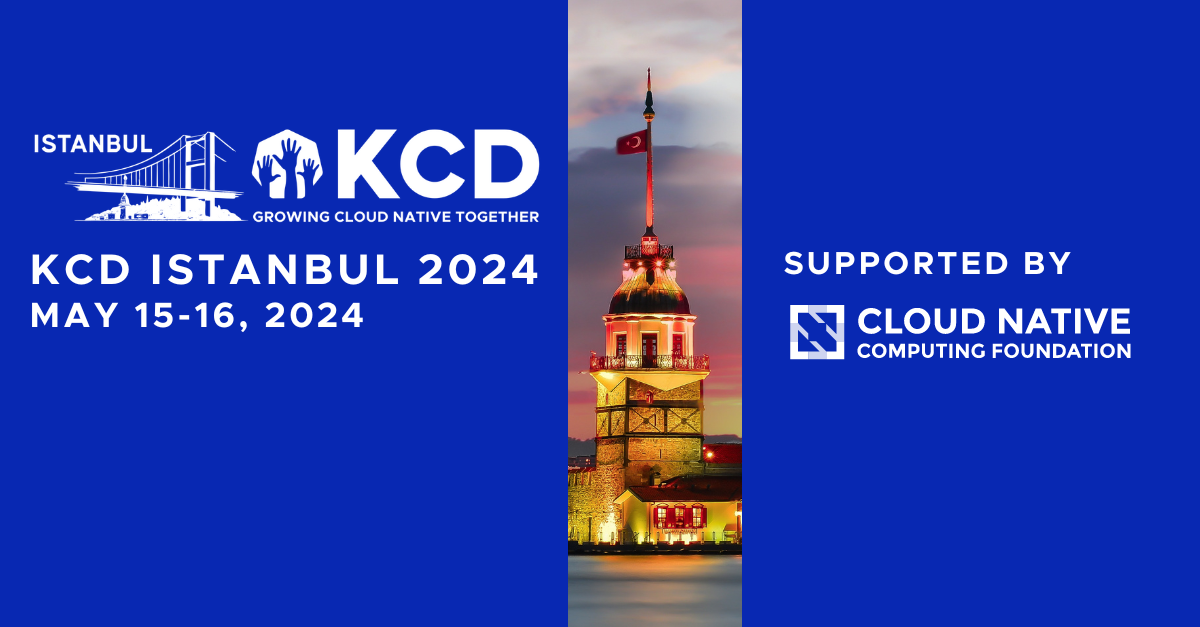
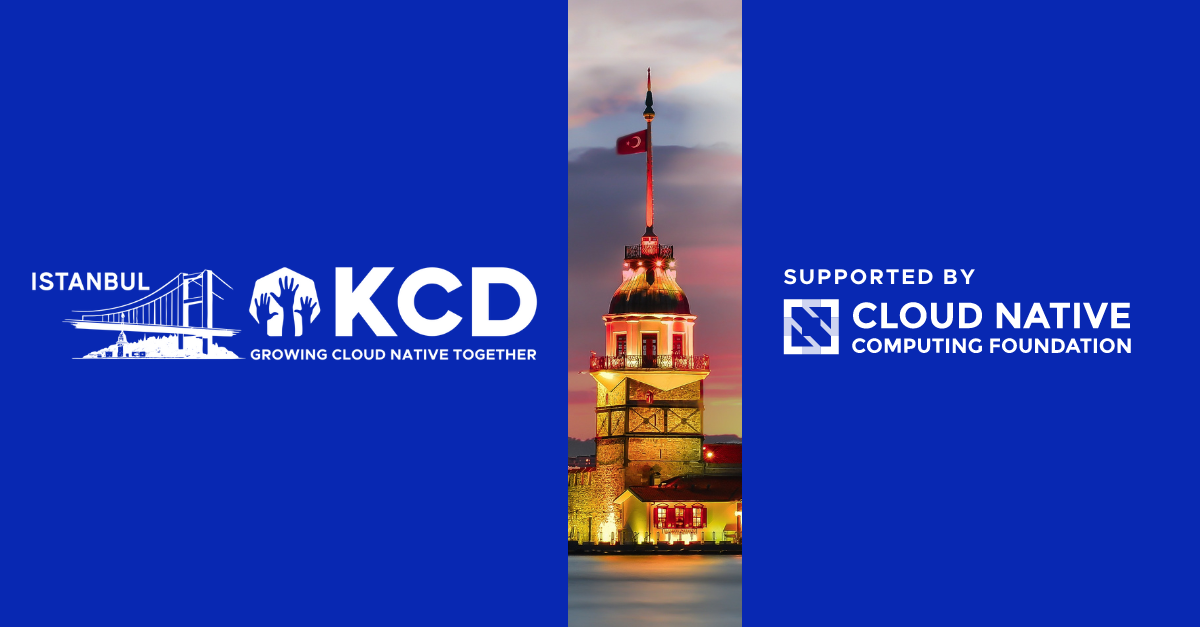
Updates for 2024 (#33)
* Update pages for past event

* Hide irrelevant pages from the navbar

* Change speaker layout

* Noting that the event has passed

* Show some photos

* Remove some speakers

* 2024 no more

* Upgrade Hugo version

* Update social media preview images

Changed region(s): [[0.0, 0.3939, 0.4625, 0.5758], [0.0308, 0.1818, 0.4625, 0.3636], [0.6475, 0.3939, 0.9558, 0.5758]]

diff --git a/content/_index.html b/content/_index.html
@@ -1,59 +1,75 @@
 ---
-title: "KCD Istanbul 2024"
-linkTitle: "KCD Istanbul 2024"
+title: "KCD Istanbul"
+linkTitle: "KCD Istanbul"
 type: _default
 layout: single
 ---
 
-<div class="container">
-    <div class="row mt-4">
-        <div class="col-1"></div>
-        <div class="col-10">
-            <p class="lead fs-3">Why KCD Istanbul?</p>
+<!--<div class="container">-->
+<!--    <div class="row mt-4">-->
+<!--        <div class="col-1"></div>-->
+<!--        <div class="col-10">-->
+<!--            <p class="lead fs-3">Why KCD Istanbul?</p>-->
 
-            <p class="lead">
-                <strong>Kubernetes Community Days</strong> (KCDs) are global, community-organized events that gather
-                adopters and technologists from open source and cloud native communities for education, collaboration, and
-                networking. KCDs are supported by the <strong>Cloud Native Computing Foundation</strong> (CNCF).
-            </p>
-            <p class="lead">
-                After a successful
-                <a class="link-primary link-offset-2 link-underline-opacity-25 link-underline-opacity-100-hover"
-                    href="https://www.cncf.io/reports/kcd-turkiye-2023/" target="_blank">
-                    KCD in 2023
-                </a>, we are excited to announce KCD Istanbul 2024!
-            </p>
-            <p class="lead">
-                Whether you're a seasoned developer, a curious beginner, or a business leader navigating the cloud, our
-                conference offers a unique platform to connect, learn, and see the current state and the future of
-                cloud native technologies.
-            </p>
+<!--            <p class="lead">-->
+<!--                <strong>Kubernetes Community Days</strong> (KCDs) are global, community-organized events that gather-->
+<!--                adopters and technologists from open source and cloud native communities for education, collaboration, and-->
+<!--                networking. KCDs are supported by the <strong>Cloud Native Computing Foundation</strong> (CNCF).-->
+<!--            </p>-->
+<!--            <p class="lead">-->
+<!--                After a successful-->
+<!--                <a class="link-primary link-offset-2 link-underline-opacity-25 link-underline-opacity-100-hover"-->
+<!--                    href="https://www.cncf.io/reports/kcd-turkiye-2023/" target="_blank">-->
+<!--                    KCD in 2023-->
+<!--                </a>, we are excited to announce KCD Istanbul 2024!-->
+<!--            </p>-->
+<!--            <p class="lead">-->
+<!--                Whether you're a seasoned developer, a curious beginner, or a business leader navigating the cloud, our-->
+<!--                conference offers a unique platform to connect, learn, and see the current state and the future of-->
+<!--                cloud native technologies.-->
+<!--            </p>-->
 
-            <p class="lead fs-3">What to Expect</p>
-            <ul class="lead">
-                <li>Insightful Keynotes: Gain valuable perspectives from industry leaders shaping the cloud native
-                    ecosystem.
-                </li>
-                <li>Deep-dive talks: Learn from experts about cloud native technologies.</li>
-                <li>Interactive Workshops: Dive deep into hands-on sessions.</li>
-                <li>Community Collaboration: Forge connections with like-minded individuals, sharing experiences and
-                    best practices.
-                </li>
-            </ul>
+<!--            <p class="lead fs-3">What to Expect</p>-->
+<!--            <ul class="lead">-->
+<!--                <li>Insightful Keynotes: Gain valuable perspectives from industry leaders shaping the cloud native-->
+<!--                    ecosystem.-->
+<!--                </li>-->
+<!--                <li>Deep-dive talks: Learn from experts about cloud native technologies.</li>-->
+<!--                <li>Interactive Workshops: Dive deep into hands-on sessions.</li>-->
+<!--                <li>Community Collaboration: Forge connections with like-minded individuals, sharing experiences and-->
+<!--                    best practices.-->
+<!--                </li>-->
+<!--            </ul>-->
 
-            <p class="lead">
-                See our <a class="link-primary link-offset-2 link-underline-opacity-25 link-underline-opacity-100-hover"
-                           href="/faq/">FAQ</a> for more details.
-            </p>
+<!--            <p class="lead">-->
+<!--                See our <a class="link-primary link-offset-2 link-underline-opacity-25 link-underline-opacity-100-hover"-->
+<!--                           href="/faq/">FAQ</a> for more details.-->
+<!--            </p>-->
 
+<!--        </div>-->
+<!--    </div>-->
+<!--    <div class="col-1"></div>-->
+<!--</div>-->
+
+<div class="container-fluid pt-4 pb-2 text-center bg-light">
+    <div class="container">
+        <div class="row justify-content-center">
+            <div class="col-12">
+                <h1 class="display-6">KCD Istanbul 2024 Experience</h1>
+            </div>
+            {{< experience >}}
+            <div class="col-12">
+                <p class="lead mt-4">
+                    <a href="https://2024.kcd.istanbul/gallery/" class="btn btn-warning btn-lg" target="_blank">See more from 2024</a>
+                </p>
+            </div>
         </div>
     </div>
-    <div class="col-1"></div>
 </div>
 
-<div class="container">
+<div class="container text-center mt-5">
     <div class="col-12">
-        <h1 class="display-6" id="speakers">Speakers</h1>
+        <h1 class="display-6" id="speakers">2024 Speakers</h1>
     </div>
 
     <!--TODO: hide the following block when we close the CFP -->
@@ -80,7 +96,7 @@ layout: single
 
     <div class="row mt-4">
         <div class="col-12">
-            <div class="row row-cols-1 row-cols-md-2 row-cols-lg-4 g-4 justify-content-center">
+            <div class="row row-cols-2 row-cols-md-4 row-cols-lg-6 g-4 justify-content-center">
                 {{< speakers >}}
             </div>
         </div>

diff --git a/layouts/partials/hero.html b/layouts/partials/hero.html
@@ -2,8 +2,8 @@
     <div class="container">
         <div class="row pt-4">
             <div class="col-sm-12">
-                <h2><span class="badge rounded-pill text-bg-warning fw-normal">May 15-16, 2024</span>
-                <h2><span class="badge rounded-pill text-bg-warning fw-normal">Yıldız Technical University</span>
+<!--                <h2><span class="badge rounded-pill text-bg-warning fw-normal">May 15-16, 2024</span>-->
+<!--                <h2><span class="badge rounded-pill text-bg-warning fw-normal">Yıldız Technical University</span>-->
                 </h2>
                 <div class="mt-4">
                     <h1 class="display-4">Kubernetes Community Days Istanbul</h1>
@@ -13,18 +13,20 @@
         <div class="row pt-4">
             <div class="col-sm-6">
                 <h1 class="lead fs-2">
-                    Join us for an exciting journey into the heart of cloud native innovation at KCD Istanbul!
+                    <a href="https://2024.kcd.istanbul" class="link-dark link-offset-2 link-underline-opacity-25 link-underline-opacity-100-hover" target="_blank">KCD Istanbul 2024</a> is a wrap!
                 </h1>
                 <h1 class="lead fs-4">
-                    As part of the global Kubernetes Community Days, our event brings together experts, enthusiasts, and
-                    novices to explore the latest trends, share insights, and collaborate in the landscape of cloud native
-                    technologies.
+                    Thank you for joining us at KCD Istanbul 2024! We hope you had a great time and learned a lot from our speakers. We can't wait to see you again next year!
+                </h1>
+
+                <h1 class="lead fs-4">
+                    Visit our <a href="https://2024.kcd.istanbul" class="link-dark link-offset-2 link-underline-opacity-25 link-underline-opacity-100-hover" target="_blank">2024 website</a> to see the schedule, speakers, and sponsors.
                 </h1>
 
                 <!-- TODO: uncomment when we have tickets -->
-                <p class="lead mt-5">
-                    <a href="https://kommunity.com/kcdistanbul/events/kubernetes-community-days-istanbul-2024-5e169d44/tickets" target="_blank" class="btn btn-warning btn-lg">Get Your Ticket!</a>
-                </p>
+<!--                <p class="lead mt-5">-->
+<!--                    <a href="https://kommunity.com/kcdistanbul/events/kubernetes-community-days-istanbul-2024-5e169d44/tickets" target="_blank" class="btn btn-warning btn-lg">Get Your Ticket!</a>-->
+<!--                </p>-->
             </div>
             <div class="col-sm-6 pb-4">
                 <img src="/right-banner.png" class="img-fluid"/>

diff --git a/layouts/partials/header.html b/layouts/partials/header.html
@@ -11,7 +11,8 @@
             </button>
             <div class="collapse navbar-collapse" id="navbarScroll">
                 <div class="navbar-nav me-auto my-2 navbar-nav-scroll" style="--bs-scroll-height: 100px;">
-                    <a class="nav-link" href="/#speakers">Speakers</a>
+                    <a class="nav-link" href="https://2024.kcd.istanbul" target="_blank">KCD 2024</a>
+                    <!-- <a class="nav-link" href="/#speakers">Speakers</a> -->
 
                     <!-- TODO: uncomment when we have tickets -->
                     <!--
@@ -24,13 +25,13 @@
                     <!-- TODO: hide when  -->
                     <!-- <a class="nav-link" href="/timeline/">Timeline</a> -->
 
-                    <a class="nav-link" href="/sponsorship/">Sponsorship</a>
+                    <!-- <a class="nav-link" href="/sponsorship/">Sponsorship</a> -->
 
                     <!-- TODO: uncomment when we have the schedule -->
-                    <a class="nav-link" href="/schedule/">Schedule</a>
+                    <!-- <a class="nav-link" href="/schedule/">Schedule</a> -->
 
-                    <a class="nav-link" href="/venue/">Venue</a>
-                    <a class="nav-link" href="/faq/">FAQ</a>
+                    <!-- <a class="nav-link" href="/venue/">Venue</a> -->
+                    <!-- <a class="nav-link" href="/faq/">FAQ</a> -->
                     <a class="nav-link" href="/team/">Team</a>
                 </div>
             </div>

diff --git a/layouts/partials/head.html b/layouts/partials/head.html
@@ -13,21 +13,21 @@
 
   <!-- Meta Tags Generated with https://metatags.io -->
   <!-- Primary Meta Tags -->
-  <meta name="title" content="KCD Istanbul 2024" />
+  <meta name="title" content="KCD Istanbul" />
   <meta name="description" content="Join us for a journey into the cloud native innovation at KCD Istanbul!" />
 
   <!-- Open Graph / Facebook -->
   <meta property="og:type" content="website" />
   <meta property="og:url" content="https://kcd.istanbul/" />
-  <meta property="og:title" content="KCD Istanbul 2024" />
+  <meta property="og:title" content="KCD Istanbul" />
   <meta property="og:description" content="Join us for a journey into the cloud native innovation at KCD Istanbul!" />
-  <meta property="og:image" content="https://kcd.istanbul/linkedin-card-image.png" />
+  <meta property="og:image" content="https://kcd.istanbul/linkedin-card-image.png?v2" />
 
   <!-- Twitter -->
   <meta name="twitter:card" content="summary_large_image">
-  <meta name="twitter:title" content="KCD Istanbul 2024">
+  <meta name="twitter:title" content="KCD Istanbul">
   <meta name="twitter:description" content="Join us for a journey into the cloud native innovation at KCD Istanbul!">
-  <meta name="twitter:image" content="https://kcd.istanbul/twitter-card-image.png?v1" >
+  <meta name="twitter:image" content="https://kcd.istanbul/twitter-card-image.png?v2" >
 
   <link rel="stylesheet" type="text/css" href="/css/style.css">
   {{ $title := print .Site.Title " | " .Title }}

diff --git a/layouts/shortcodes/speakers.html b/layouts/shortcodes/speakers.html
@@ -6,11 +6,10 @@
         <div class="card text-bg-light border-light speaker">
             <img src="/speakers/{{ .photo }}" class="card-img-top">
             <div class="card-body">
-                <h5 class="card-title fs-3 fw-medium">
-                    <a class="link-dark link-offset-1 link-offset-2-hover link-underline-dark link-underline-opacity-25 link-underline-opacity-75-hover" href="#" data-bs-toggle="modal" data-bs-target="#speaker-{{ .key }}">{{ .name }}</a>
+                <h5 class="card-title fw-medium">
+                    <span>{{ .name }}</span>
                 </h5>
-                <div class="card-text fs-5 fw-light">
-                    <div>{{ .title }}</div>
+                <div class="card-text fw-light">
                     <div>{{ .company }}</div>
                     {{ if .twitter }}
                     <a href="https://twitter.com/{{ .twitter }}" target="_blank" class="card-link link-secondary"><i class="bi bi-twitter-x"></i></a>
@@ -22,13 +21,4 @@
             </div>
         </div>
     </div>
-{{ end }}
-
-
-{{ range $.Site.Data.speakers }}
-    {{ partial "speakerModal.html" (dict "siteData" $.Site.Data "speaker" .) }}
-{{ end }}
-
-{{ range $.Site.Data.sessions }}
-    {{ partial "sessionModal.html" (dict "siteData" $.Site.Data "session" .) }}
 {{ end }}

diff --git a/content/cfp.html b/content/cfp.html
@@ -2,22 +2,17 @@
 title: "Become a Speaker"
 linkTitle: "Become a Speaker"
 type: _default
-layout: single
+layout: nohero
 ---
 
 <div class="container">
 
-    <p class="lead fs-2">
-        If you want to become a speaker, please fill out our form.
-    </p>
-
-    <p class="lead mt-2">
-        <a href="https://sessionize.com/kubernetes-community-days-istanbul/" target="_blank" class="btn btn-warning btn-lg">Proposal Form</a>
-    </p>
-
-    <div class="alert alert-info limited-width-lg" role="alert">
-        <span class="badge bg-primary">New</span> Call for papers is open!
-    </div>
+    <h2>
+        This event has passed.
+        <a href="https://kcd.istanbul" class="link-light link-offset-2 link-underline-opacity-25 link-underline-opacity-100-hover" >
+            Stay tuned for KCD Istanbul 2025!
+        </a>
+    </h2>
 
     <p class="lead fs-2 mt-5">
         Timeline

diff --git a/content/tickets.html b/content/tickets.html
@@ -1,4 +1,17 @@
 ---
-type: redirect
-target: https://kommunity.com/kcdistanbul/events/kubernetes-community-days-istanbul-2024-5e169d44/tickets
+title: "Tickets"
+linkTitle: "Tickets"
+type: _default
+layout: nohero
 ---
+
+<div class="container" style="text-align: center">
+    <h2>
+        <span class="badge text-bg-danger fw-normal">
+            This event has passed.
+            <a href="https://kcd.istanbul" class="link-light link-offset-2 link-underline-opacity-25 link-underline-opacity-100-hover" >
+                Stay tuned for KCD Istanbul 2025!
+            </a>
+        </span>
+    </h2>
+</div>

diff --git a/layouts/shortcodes/experience.html b/layouts/shortcodes/experience.html
@@ -1,0 +1,13 @@
+{{/* Show first 6 */}}
+{{ range seq 6 }}
+    {{ $index := add 1 . }}
+    {{ $indexPadded := (printf "%0*.*f" 3 0 (float .)) }}
+    {{ $fileName := (printf "%s.%s" $indexPadded "jpg") }}
+    {{ $imagePath := (print "/photos/experience/" $fileName )}}
+    {{ $image := resources.Get $imagePath }}
+    {{ $thumb := $image.Process "resize 1024x" }}
+    <div class="col-6 gx-2 gy-2" style="overflow: hidden;">
+        <img src="{{ $thumb.RelPermalink }}" class="img-fluid experience" style="overflow: hidden;">
+    </div>
+{{ end }}
+

diff --git a/content/sponsorship.html b/content/sponsorship.html
@@ -12,7 +12,7 @@ layout: single
     </h1>
 
     <p class="lead fs-5 mt-3">
-        We no longer accept sponsorships for KCD Istanbul 2024. We would like to thank all our sponsors for their support.
+        We would like to thank all our sponsors for their support.
         <br>
     </p>
 <!--    <p class="lead fs-5 mt-3">-->

diff --git a/static/css/style.css b/static/css/style.css
@@ -48,3 +48,12 @@
         width: 100%;
     }
 }
+
+img.experience{
+    transition: transform 2s ease;
+}
+
+img.experience:hover{
+    /*zoom a little*/
+    transform: scale(1.2);
+}

diff --git a/README.md b/README.md
@@ -1,4 +1,4 @@
-# KCD Istanbul 2024 Website
+# KCD Istanbul Website
 
 ## Development
 
